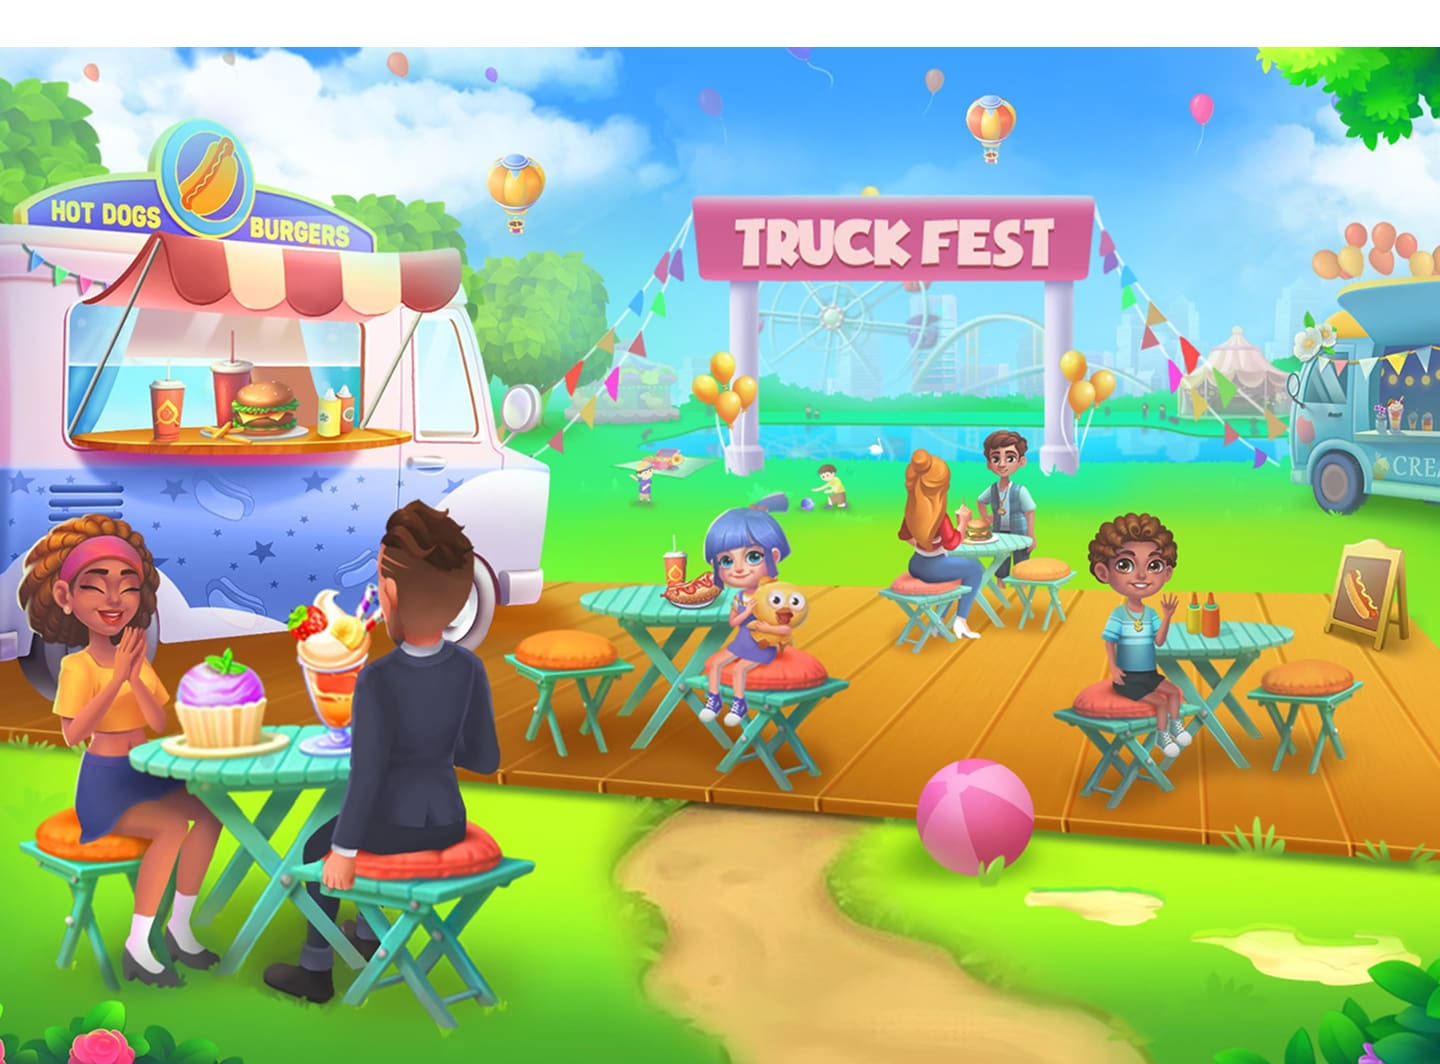
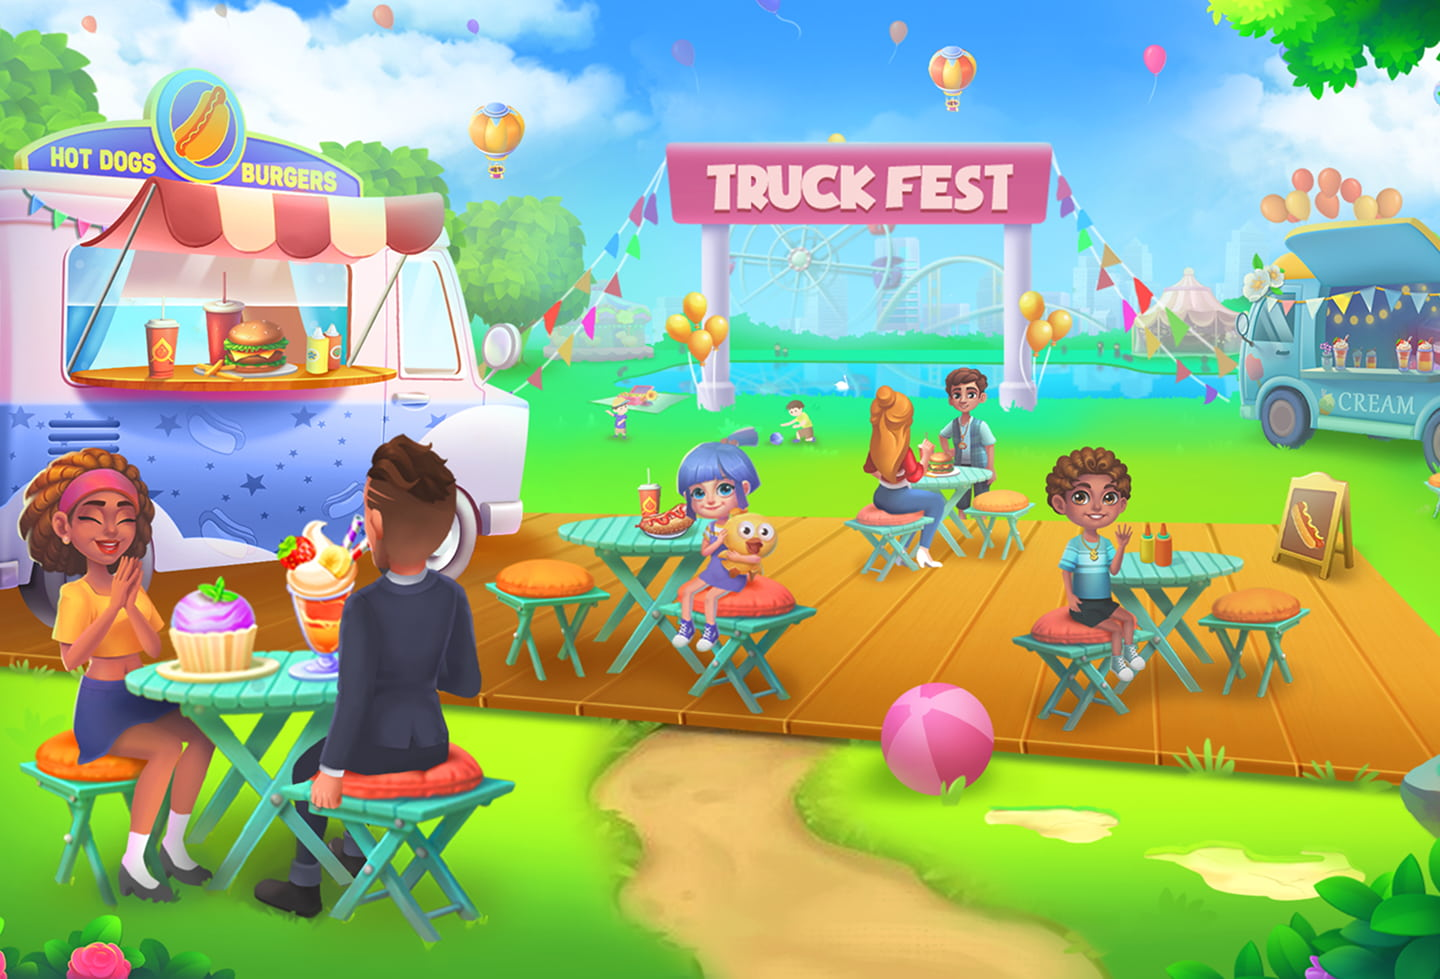
add desktop version

diff --git a/src/css/hero.css b/src/css/hero.css
@@ -14,37 +14,50 @@
     background-image: url('../img/hero/[email redacted]');
   }
 }
-
 @media (min-width: 1440px) {
   .hero {
     background-image: url('../img/hero/hero-desktop.jpg');
+    aspect-ratio: 1440/980;
+    padding-top: 140px;
   }
 }
 
 @media screen and (min-width: 1440px) and (min-resolution: 192dpi) {
   .hero {
     background-image: url('../img/hero/[email redacted]');
+    aspect-ratio: 1440/980;
   }
-}
-.hero-title-img {
-  margin: 0 auto;
-  width: 60%;
-  height: auto;
-}
-.over {
-  position: relative;
-  z-index: 2;
 }
 
+.hero-title-svg {
+  display: flex;
+  flex-direction: column;
+  justify-content: center;
+  align-items: center;
+}
+
+.hero-title-top {
+  max-width: 205px;
+  min-height: 37px;
+}
 @media (min-width: 1440px) {
-  .hero-title-svg {
-    display: flex;
-    flex-direction: column;
-  }
-  .hidden {
-    display: none;
+  .hero-title-top {
+    max-width: 1154px;
+    min-height: 156px;
   }
 }
+
+.hero-title-bottom-img {
+  max-width: 270px;
+  min-height: 41px;
+}
+@media (min-width: 1440px) {
+  .hero-title-bottom-img {
+    max-width: 487px;
+    min-height: 75px;
+  }
+}
+
 .blur-circle {
   position: relative;
   display: block;
@@ -52,7 +65,11 @@
   z-index: 1;
   border-radius: 100%;
   margin: 0 auto;
-  max-width: 100%;
+}
+@media (min-width: 1440px) {
+  .blur-circle {
+    padding: 60px 0 40px;
+  }
 }
 
 .blur-circle::before {
@@ -71,6 +88,12 @@
   z-index: -1;
   pointer-events: none;
 }
+@media (min-width: 1440px) {
+  .blur-circle::before {
+    max-width: 497px;
+    min-height: 274px;
+  }
+}
 
 .hero-title {
   position: relative;
@@ -79,11 +102,60 @@
   font-family: 'Baloo 2', sans-serif;
   font-weight: 700;
   text-align: center;
-  font-size: clamp(18px, 4.5vw, 24px);
+  font-size: 18px;
   max-width: 214px;
   line-height: 1.2;
   margin: 0 auto;
   color: #813d06;
+}
+@media (min-width: 1440px) {
+  .hero-title {
+    font-size: 24px;
+    max-width: 287px;
+  }
+}
+
+.hero-link {
+  display: flex;
+  margin: 0 auto;
+  gap: 12px;
+  justify-content: center;
+  align-items: center;
+  border-radius: 40px;
+  max-width: 217px;
+  width: 100%;
+  background-color: #9c76f3;
+  height: 48px;
+  line-height: 1.2;
+  text-align: center;
+  font-weight: 700;
+  font-size: 16px;
+  font-family: 'Baloo 2', sans-serif;
+  color: #fff;
+  transition: background-color 0.3s ease;
+
+  &:hover {
+    background-color: #b899ff;
+  }
+}
+
+@media (min-width: 1440px) {
+  .hero-link {
+    font-size: 24px;
+    max-width: 330px;
+    height: 64px;
+  }
+}
+
+.google-icon {
+  height: 24px;
+  width: 24px;
+}
+@media (min-width: 1440px) {
+  .google-icon {
+    height: 32px;
+    width: 32px;
+  }
 }
 
 .hero-wave {
@@ -98,20 +170,20 @@
   background-position: bottom center;
 }
 
-.hero-link {
-  display: flex;
-  margin: 0 auto;
-  gap: 12px;
-  justify-content: center;
-  align-items: center;
-  border-radius: 40px;
-  max-width: 217px;
-  width: 100%;
-  background-color: #9c76f3;
-  height: 48px;
-  text-align: center;
-  font-weight: 700;
-  font-size: 16px;
-  font-family: 'Baloo 2', sans-serif;
-  color: #fff;
+@media (min-width: 1440px) {
+  .hero-wave {
+    background-image: url('../img/hero/wave-desktop.png');
+    height: 175px;
+  }
+}
+
+.over {
+  position: relative;
+  z-index: 2;
+}
+
+@media (min-width: 1440px) {
+  .hidden {
+    display: none;
+  }
 }

diff --git a/src/partials/hero.html b/src/partials/hero.html
@@ -1,5 +1,5 @@
 <section class="hero">
-  <div class="container"></div>
+  <div class=" container">
   <div class="hero-title-svg">
     <picture>
       <source
@@ -10,7 +10,7 @@
       <img
         src="../img/hero/headline-your-food.png"
         alt="YOUR FOOD TRUCK EMPIRE "
-        class="hero-title-img over"
+        class="hero-title-top over"
       />
     </picture>
     <img
@@ -27,7 +27,7 @@
       <img
         src="../img/hero/headline-start-here.png"
         alt="STARTS HERE"
-        class="hero-title-img over"
+        class="hero-title-bottom-img over"
       />
     </picture>
   </div>
@@ -40,11 +40,12 @@
   <a
     class="hero-link over"
     href="https://play.google.com/store/apps/details?id=com.cooking.truckfest.food.festival"
+    target="_blank"
   >
-    <svg class="cta-icon" height="24" width="24">
+    <svg class="google-icon">
       <use href="../img/sprite.svg#icon-google-play"></use>
     </svg>
-    <span>Грати в Google Play</span></a
+    <span>Play on Google Play</span></a
   >
   <div class="hero-wave"></div>
 </section>